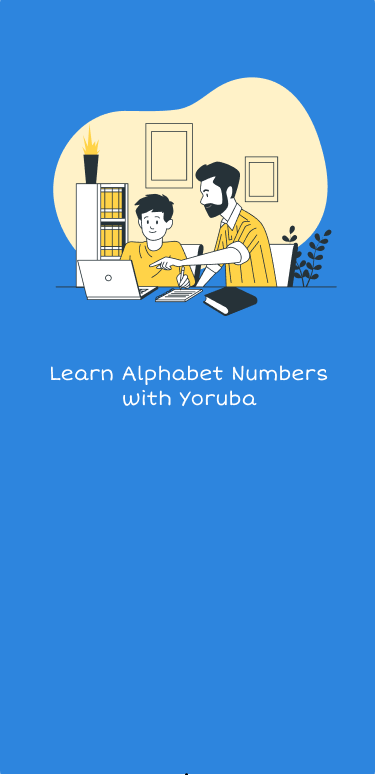
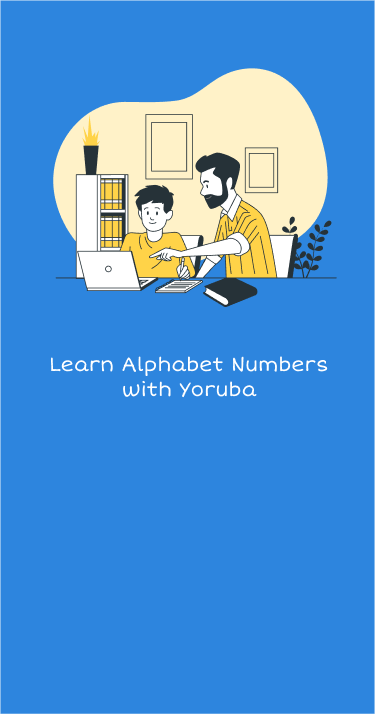
register and login page done

diff --git a/Login.html b/Login.html
@@ -3,11 +3,10 @@
 <head>
     <meta charset="UTF-8">
     <meta name="viewport" content="width=device-width, initial-scale=1.0">
-    <script src="https://cdn.jsdelivr.net/npm/@tailwindcss/browser@4"></script>
-    <link rel="stylesheet" href="style.css">
     <title>Document</title>
+     <script src="https://cdn.jsdelivr.net/npm/@tailwindcss/browser@4"></script>
+    <link rel="stylesheet" href="style.css">
 </head>
-
 <body class=" flex">
 
     <!-- LEFT SIDE -->
@@ -16,7 +15,7 @@
 
         <div class="leftImgD w-full h-fit">
 
-            <img src="assets/images/sigimg0 - Copy (2).png" alt="image" 
+            <img src="assets/images/Welcome - Copy2.png" alt="image" 
              class="leftImg hidden md:block w-full object-contain">
 
         </div>
@@ -29,22 +28,17 @@
 
         <div class="rightImgD ">
 
-            <img src="assets/images/sigimg0 - Copy.png" alt="image" 
+            <img src="assets/images/welcomeCopy.png" alt="image" 
             class="rightImg  block md:hidden object-contain w-xs ">
 
         </div>
 
-        <h6 class="rightHt text-center text-2xl">Register</h6>
+        <h6 class="rightHt text-center text-2xl">Login</h6>
 
         <div class="regD w-fit rounded-2xl shadow-[1px_10px_30px_-10px_black]">
 
-            <label class="text-sm" for="name">Name:</label><br>
-            <input type="text" id="name" placeholder="Enter Name" class="rightInp w-3xs sm:w-sm bg-white rounded-sm text-base">
-
-            <br>
-
             <label class="text-sm" for="email">Email Address:</label><br>
-            <input type="text" id="email" placeholder="Enter Email Address" class="rightInp w-3xs sm:w-sm bg-white rounded-sm text-base">
+            <input type="text" id="email" placeholder="test@mail.com" class="rightInp loginRightInp  w-3xs sm:w-sm bg-white rounded-sm text-base">
 
             <br>
 
@@ -53,18 +47,20 @@
 
             <br>
 
-            <label class="text-sm" for="confirmPass">Confirm Password:</label><br>
-            <input type="text" id="confirmPass" placeholder="Confirm Password" class="rightInp w-3xs sm:w-sm bg-white rounded-sm text-base">
-
-            <br>
-
-            <input type="submit" value="Create Account" class="inpBtn w-3xs sm:w-sm text-white text-center rounded-sm text-base">
+            <input type="submit" value="Login" class="inpBtn w-3xs sm:w-sm text-white text-center rounded-sm text-base">
         </div>
+
+        <a href="register.html" class="regLink">Register here</a>
+
+        <br>
+    <br>
+    <br>
+    <br>
+    <br>
         
     </section>
 
 
 
 </body>
-
 </html>

diff --git a/style.css b/style.css
@@ -1,3 +1,5 @@
+@import url('https://fonts.googleapis.com/css2?family=Sono:wght@200..800&display=swap');
+
 *{
     padding: 0;
     margin: 0;
@@ -5,16 +7,17 @@
     border: 0px solid black;
 }
 
+body{
+     background-color: rgb(59, 132, 216);
+}
 
 
+/* LEFT */
 .leftSecReg{
     background-color: rgb(59, 132, 216);
 }
 
-.leftImg{
-    height: 99vh;
-}
-
+/* RIGHT */
 .rightSecReg{
     background-image: url(assets/images/spec.png);
     background-repeat: no-repeat;
@@ -37,33 +40,43 @@
 } 
 
 .rightHt{
+    font-family: "Sono", monospace;
     margin-top: 50px;
     margin-bottom: 40px;
 }
 
+label{
+    font-family: "Sono", monospace;
+}
+
 .rightInp{
+    font-family: "Sono", monospace;
+    color: black;
     padding: 5px 0px 5px 10px;
     margin: 10px 0px;
 }
 
 .inpBtn{
+    font-family: "Sono", monospace;
     background-color: rgb(3, 122, 240);
     margin-top: 2.5px;
     margin-bottom: 5px;
     padding: 5px 0;
 }
 
-@media (min-width: 340px) and (max-width: 767px){
+
+                                  /* RESPONSIVENESS */
+
+
+@media (min-width: 300px) and (max-width: 767px){
 
     .rightHt{
     margin-top: 30px;
     margin-bottom: 30px;
 }
-
-
 }
 
-@media (min-width: 340px) and (max-width: 470px){
+@media (min-width: 300px) and (max-width: 470px){
 
     .rightInp, .inpBtn{
     width: 160px;
@@ -90,5 +103,29 @@
     .rightInp, .inpBtn{
     width: 220px;
     }
+
+}
+
+/* LOGIN PAGE */
+
+.regLink{
+    font-family: "Sono", monospace;
+    color: rgb(0, 81, 255);
+    font-weight: 500;
+    margin-bottom: 200px;
+}
+
+.loginRightInp{
+    font-family: "Sono", monospace;
+    color: rgb(0, 0, 0);
+    padding: 5px 0px 5px 10px;
+    margin: 10px 0px;
+}
+
+@media (min-width: 300px) and (max-width: 920px){
+
+    /* .regLink{
+    margin-bottom: 20px;
+} */
 
 }
